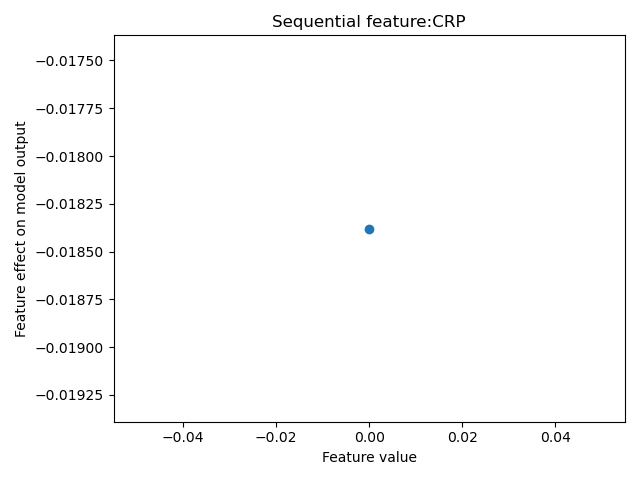
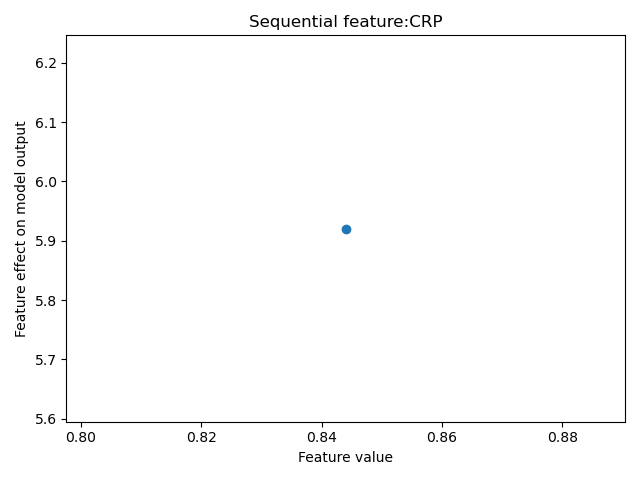
Added method for getting effect values from lstm cell with considering history.

diff --git a/src/interpret_sim_test_seq.py b/src/interpret_sim_test_seq.py
@@ -97,8 +97,7 @@ colors = ['blue', 'green', 'red', 'black', 'magenta']
 for idx, value in enumerate(seq_features):
     effect_feature_values.append([])
     for t in range(0, 12):
-        x, out, h_t, out_coef = model.plot_feat_seq_effect(idx, torch.from_numpy(
-            x_seq_final[case, t, idx].reshape(1, 1, 1)).float())
+        x, out, h_t, out_coef = model.plot_feat_seq_effect(idx, torch.from_numpy(x_seq_final[case, t, idx].reshape(1, 1, 1)).float())
         x = x.detach().numpy().squeeze()
         out = out.detach().numpy()
         effect_feature_values[-1].append(out[0][0])
@@ -114,6 +113,7 @@ plt.show()
 plt.draw()
 fig1.savefig(f'../plots/seq_features_case_{case}.png', dpi=100)
 """
+
 
 """
 # 2) Print sequential features (global)
@@ -171,6 +171,7 @@ for idx, value in enumerate(static_features):
     fig1.savefig(f'../plots/{value}.png', dpi=100)
 """
 
+"""
 # 4) Print sequential feature over time with value range (global)
 for t in range(0, 12):
     for idx, value in enumerate(seq_features):
@@ -199,17 +200,17 @@ for t in range(0, 12):
             plt.show()
             plt.draw()
             fig1.savefig(f'../plots/{value}_t{t}.png', dpi=100)
-
-
 """
+
+
 # 5) Print sequential feature over time with value range (global, with history)
-cases = 1
+cases = 2
 for t in range(0, 12):
     for idx, value in enumerate(seq_features):
         if value == "CRP":
             # x, out = model.plot_feat_seq_effect_custom(idx, -2, 2)
-            x, out, h_t, out_coef = model.plot_feat_seq_effect(idx, torch.from_numpy(x_seq_final[0:cases, 0:t+1, idx].reshape(-1, t+1, 1)).float())
-
+            x, out, h_t, out_coef = model.plot_feat_seq_effect(idx, torch.from_numpy(x_seq_final[2, 0:t+1, idx].reshape(-1, t+1, 1)).float())
+            print(out)
             # get last value
             x = x[:, -1, :]
 
@@ -235,4 +236,3 @@ for t in range(0, 12):
             plt.show()
             plt.draw()
             fig1.savefig(f'../plots/{value}_t{t}.png', dpi=100)
-"""

diff --git a/src/util.py b/src/util.py
@@ -65,8 +65,8 @@ def get_one_hot_of_activity_mimic(x):
 def get_one_hot_of_activity_sim_test(x):
     pass
 
-def get_one_hot_of_activity_sim(x, max_lacticacid, max_crp):
 
+def get_one_hot_of_activity_sim(x, max_lacticacid, max_crp, current_crp_value, current_lacticacid_value):
     if x['Activity'] == 'Start':
         ret = [0, 1]  # No additional information, so normal one hot
     elif x['Activity'] == 'IVL':
@@ -81,10 +81,17 @@ def get_one_hot_of_activity_sim(x, max_lacticacid, max_crp):
         ret = [4, min(x['LacticAcid'], max_lacticacid) / max_lacticacid]
         if np.isnan(ret[1]):
             ret[1] = -1
+
     one_hot = np.zeros(5, dtype=np.float32)
     one_hot[ret[0]] = ret[1]
 
-    return one_hot
+    if np.isnan(x['CRP']):  # test
+        one_hot[3] = current_crp_value
+
+    if np.isnan(x['LacticAcid']):  # test
+        one_hot[4] = current_lacticacid_value
+
+    return one_hot, one_hot[3], one_hot[4]
 
 
 def get_one_hot_of_activity_sepsis(x, max_leucocytes, max_lacticacid, max_crp):

diff --git a/src/data.py b/src/data.py
@@ -27,10 +27,11 @@ def get_sim_data(label, file):
     for case in df['Case ID'].unique():
 
         after_registration_flag = False
-
         df_tmp = df[df['Case ID'] == case]
-
         idx = -1
+        current_crp_value = 0
+        current_lacticacid_value = 0
+
         for _, x in df_tmp.iterrows():
             idx = idx + 1
             if x['Activity'] == 'Start' and idx == 0:
@@ -40,7 +41,9 @@ def get_sim_data(label, file):
                 after_registration_flag = True
 
             if after_registration_flag:
-                x_seqs[-1].append(util.get_one_hot_of_activity_sim(x, max_lacticacid, max_crp))
+
+                one_hot, current_crp_value, current_lacticacid_value = util.get_one_hot_of_activity_sim(x, max_lacticacid, max_crp, current_crp_value, current_lacticacid_value)
+                x_seqs[-1].append(one_hot)
                 x_time_vals[-1].append(x['Timestamp'])
 
         if after_registration_flag:

diff --git a/src/interpret_LSTM.py b/src/interpret_LSTM.py
@@ -130,7 +130,7 @@ class NaiveCustomLSTM(nn.Module):
     def single_forward(self, x, feat_id, interaction=False, init_states=None):
         # todo: interactions
 
-        history = False
+        history = True
 
         if history:
             bs, seq_sz, feat = x.size()

diff --git a/src/main_sim.py b/src/main_sim.py
@@ -29,7 +29,7 @@ x_stat_final = torch.from_numpy(x_statics_final)
 
 y_final = torch.from_numpy(y_final).reshape(-1)
 
-epochs = 10
+epochs = 1000
 batch_size = 32
 lr = 0.001
 patience = 50
